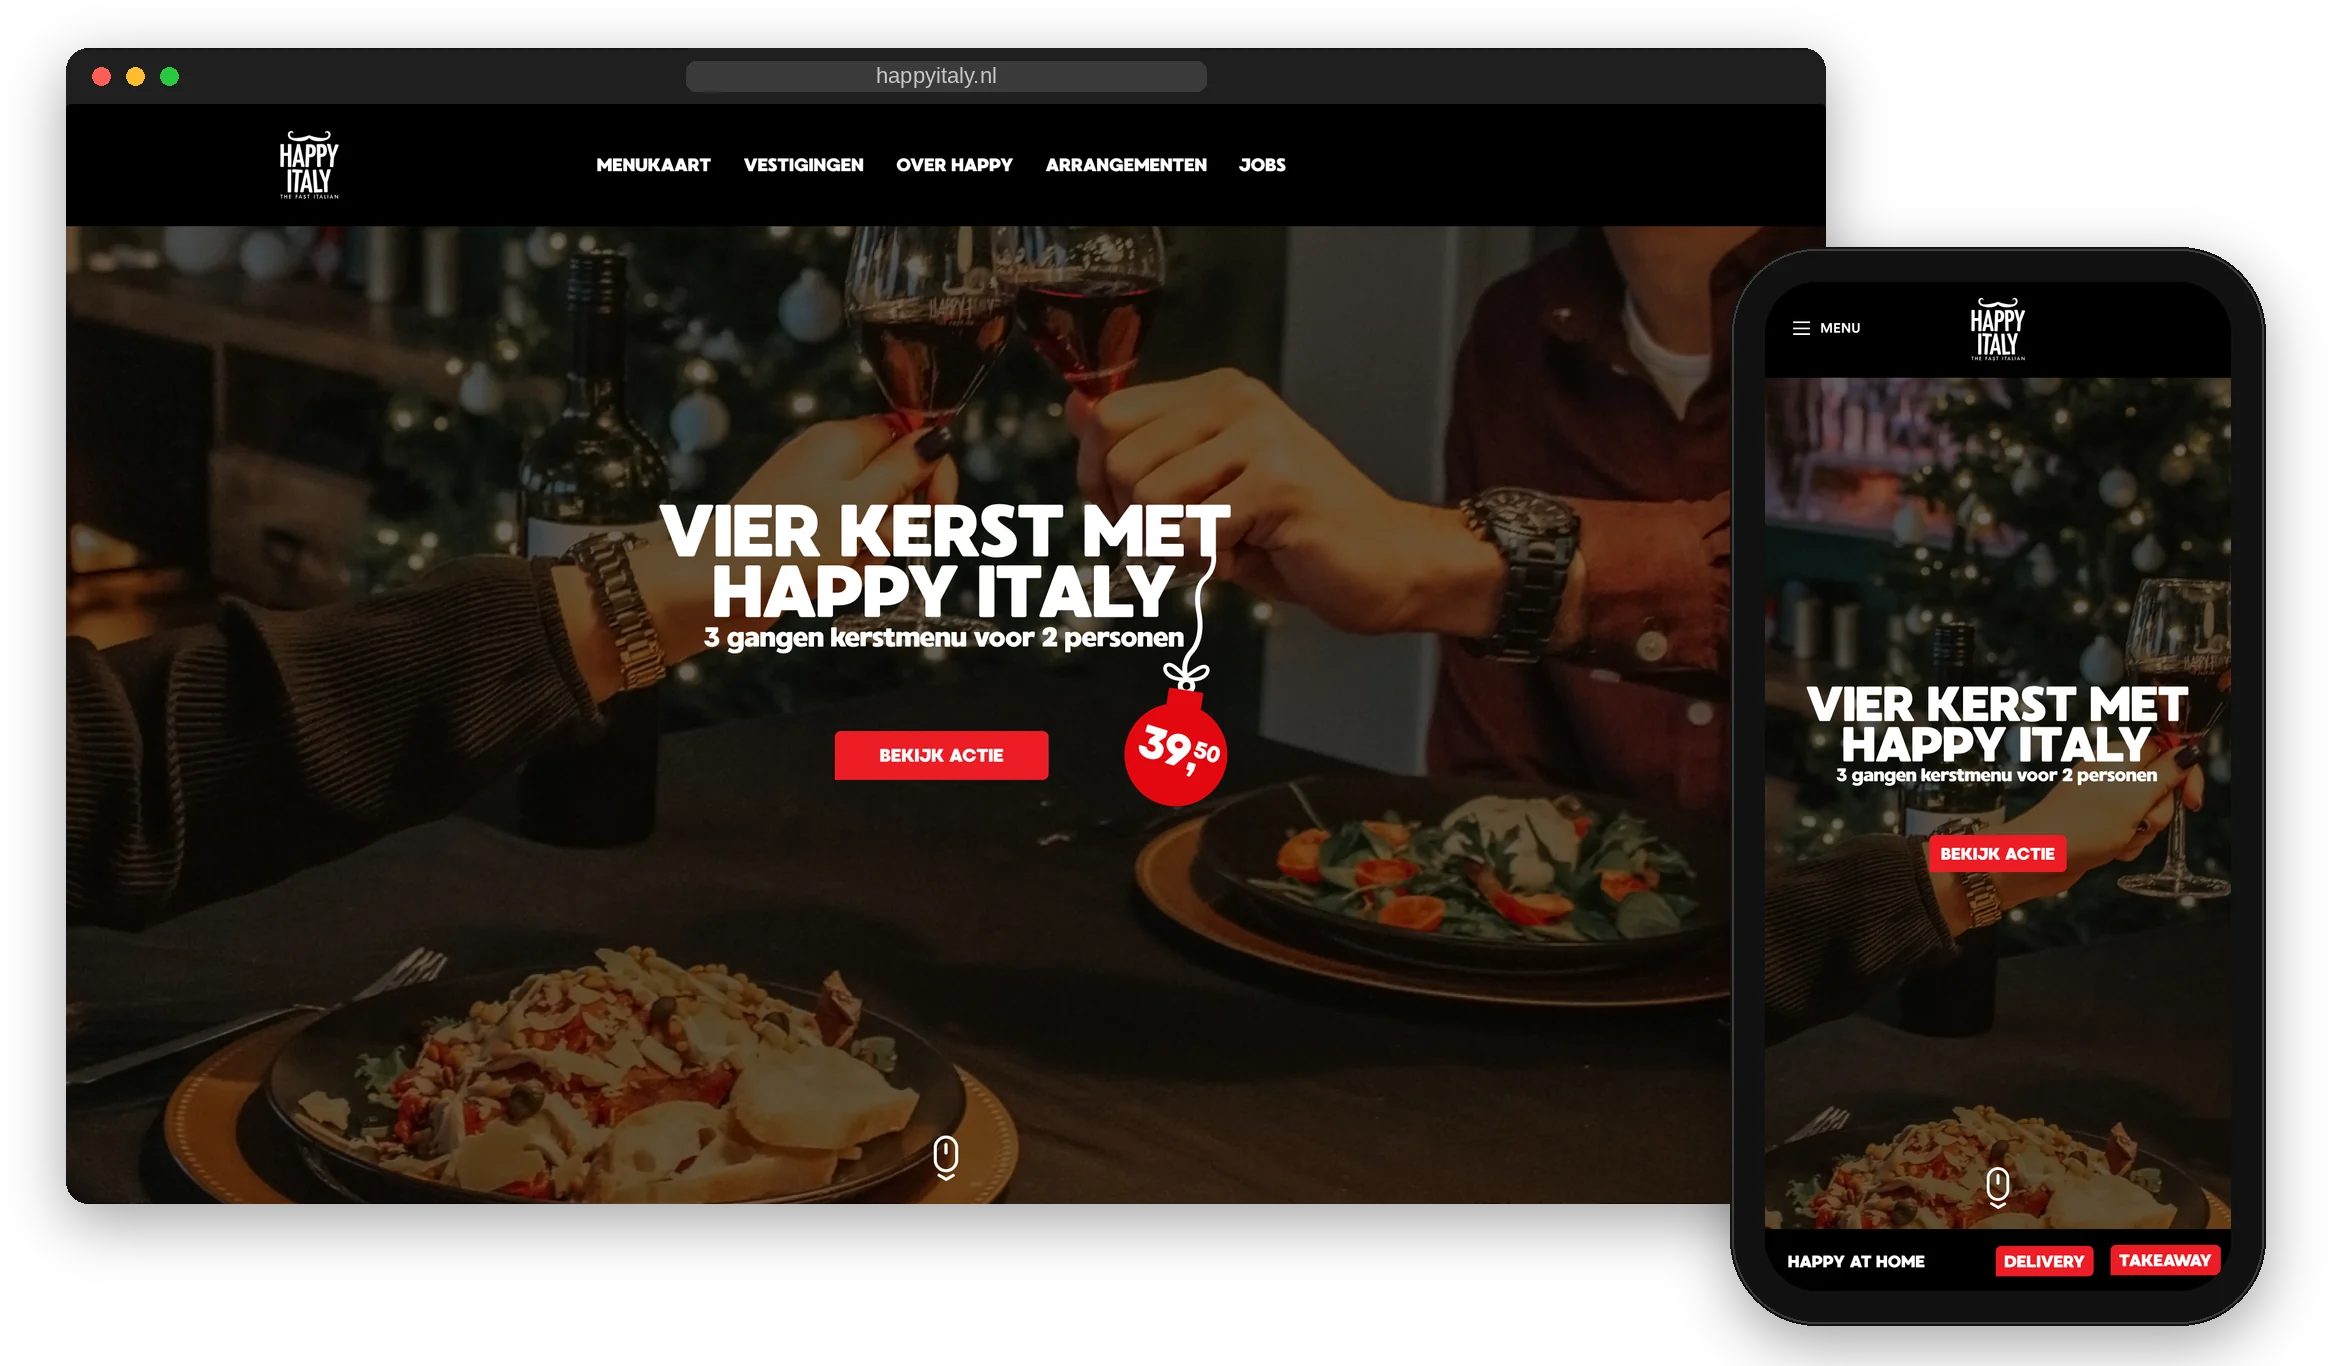
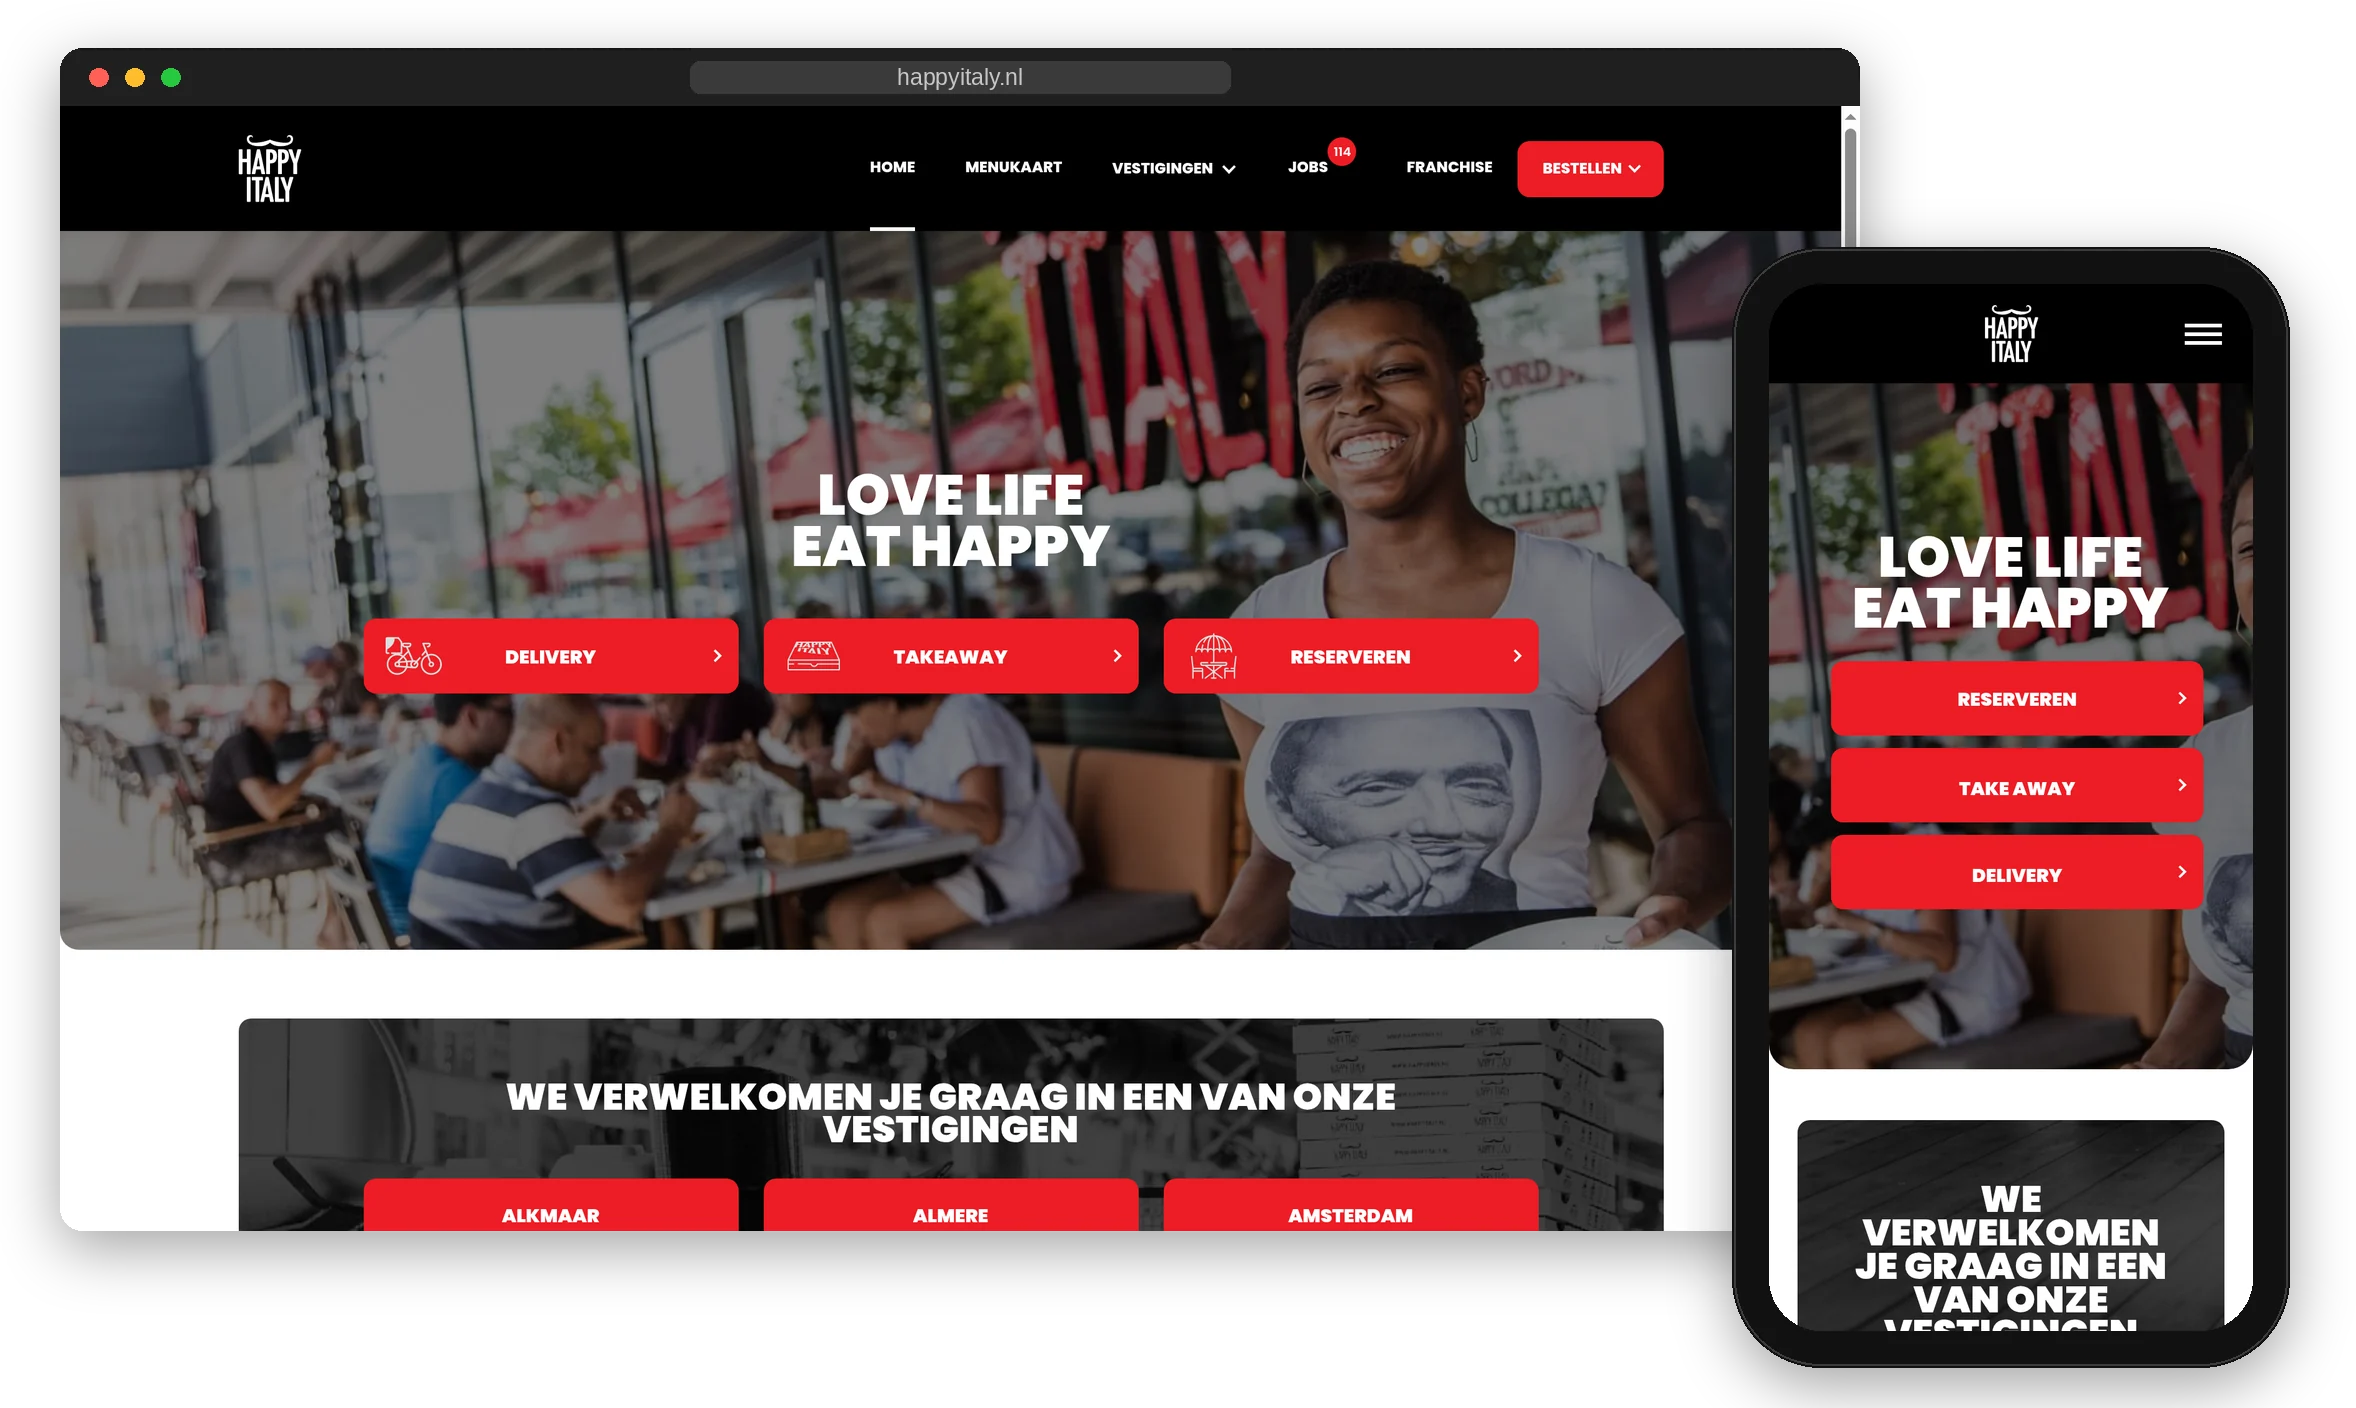
Happy Italy website case: real screens from the Webflow project, restaurant pages, allergy filter and the jobs content model [skip netlify]

diff --git a/src/data/work.ts b/src/data/work.ts
@@ -356,12 +356,13 @@ export const cases: Case[] = [
 		],
 	},
 	{
-		// Happy Italy website. Designed in Figma and built in Webflow by Musa, live spring to autumn 2021 (Wayback). Split from the app on Musa's request, 17 Nov 2026.
-		// Before/after top bars are archive captures (Feb and Jun 2021). Nothing measured: never claim a result.
+		// Happy Italy website. Designed in Figma and built in Webflow by Musa, live spring to autumn 2021 (Wayback).
+		// Split from the app on Musa's request, 17 Nov 2026. Facts from his Webflow project (hppyprjct, read 18 Nov 2026): 18 CMS collections,
+		// 138 dishes, 14 allergens, 20 visible restaurants, 16 standard roles, 125 vacancies (115 not archived). Nothing measured: never claim a result.
 		slug: 'happy-italy-website',
 		name: 'Happy Italy website',
 		title: 'Three ways to order became one button',
-		summary: 'In 2021 Happy Italy’s 20 restaurants traded through delivery and takeaway, and every new restaurant needed staff. I designed the chain’s new website and built it in Webflow around those two jobs: ordering and hiring.',
+		summary: 'In 2021 Happy Italy’s 20 restaurants traded through delivery and takeaway, and every new restaurant needed staff. I designed the chain’s new website and built it in Webflow around those jobs: ordering, finding your restaurant and dishes, and hiring.',
 		field: 'var(--lime)',
 		ink: '#000000',
 		facts: [
@@ -369,23 +370,23 @@ export const cases: Case[] = [
 			['Worked with', 'Management and restaurant stakeholders'],
 			['Platform', 'Website for phone, tablet and desktop'],
 			['Years', '2020 to 2021'],
-			['Status', 'Live from spring 2021, replaced after the chain changed owners later that year'],
-			['Built with', 'Figma and Webflow'],
+			['Status', 'Live from spring 2021, replaced after the chain changed owners later that year. The Webflow project still runs on its Webflow address'],
+			['In the CMS', '138 dishes, 14 allergens, 20 restaurants and over 100 vacancies'],
 		],
 		front: {
 			mast: 'Happy Italy',
 			title: 'Three ways to order became one button',
 			lines: [['Role', 'Design and build'], ['Restaurants', '20'], ['Live', '2021']],
-			star: { kind: 'comp', img: '/img/happy/happy-web-cover.webp', alt: 'The Happy Italy website design in a browser and on a phone: a Christmas campaign on the first screen, with delivery and takeaway at the bottom on the phone', w: 2332, h: 1366 },
+			star: { kind: 'comp', img: '/img/happy/happy-web-cover.webp', alt: 'The Happy Italy website on desktop and phone: a photo of a smiling server on the terrace, with delivery, takeaway and booking a table on the first screen', w: 2356, h: 1408 },
 		},
 		chapter: {
-			body: 'Twenty restaurants trading through delivery and takeaway, and hiring for every new one. I designed the new website and built it in Webflow: one order button instead of three, and a page for each of [100] open vacancies.',
-			visual: { kind: 'image', img: '/img/happy/happy-web-cover.webp', alt: 'The Happy Italy website design in a browser and on a phone: a Christmas campaign on the first screen, with delivery and takeaway at the bottom on the phone', w: 2332, h: 1366 },
+			body: 'Twenty restaurants trading through delivery and takeaway, and hiring for every new one. I designed the new website and built it in Webflow: one order button instead of three, a menu you can filter by allergen, and a page for each of [100] open vacancies.',
+			visual: { kind: 'image', img: '/img/happy/happy-web-cover.webp', alt: 'The Happy Italy website on desktop and phone: a photo of a smiling server on the terrace, with delivery, takeaway and booking a table on the first screen', w: 2356, h: 1408 },
 		},
 		closing: {
 			heading: 'What this case shows',
 			body: [
-				'A consumer website designed and built end to end, around the two things the business needed online: orders and staff.',
+				'A consumer website designed and built end to end, with the content model as part of the design: one place for every dish, restaurant and vacancy.',
 				'The app I designed for the chain in the same period is its own case.',
 			],
 		},
@@ -394,37 +395,48 @@ export const cases: Case[] = [
 				heading: 'Closed dining rooms, two jobs online',
 				body: [
 					'The chain planned to grow from 20 restaurants to more than 40, and into Europe, within five years. In 2021 the lockdowns kept the dining rooms closed, and delivery and takeaway kept the restaurants trading.',
-					'So the website had two jobs: get guests to order, and hire the people every new restaurant needs. In February 2021 its top bar had eight items, and three of them were different ways to order: To go, Happy Delivery and Takeaway.',
+					'So the website had two jobs: get guests to order, and hire the people every new restaurant needs.',
 				],
-				shot: { kind: 'image', img: '/img/happy/happy-web-nav.webp', alt: 'The Happy Italy top bar in February 2021, with three ways to order, and in June 2021 after the redesign, with one order button and 100 open vacancies on Jobs', w: 1680, h: 820 },
 			},
 			{
 				heading: 'One order button instead of three',
 				body: [
-					'I designed the new site for phone, tablet and desktop. On desktop the three ordering items became one order button, Bestellen, in the top bar. On the phone, delivery and takeaway sit in a bar at the bottom of the first screen, so ordering is always one tap away.',
-					'All 20 restaurants sit in one block on the homepage, each with its own page.',
+					'In February 2021 the top bar had eight items, and three of them were different ways to order: To go, Happy Delivery and Takeaway. In the new site they became one order button, Bestellen.',
+					'The first screen offers delivery, takeaway and booking a table, and it works as a campaign slot that changes with the season, from a Christmas menu in the designs to terrace bookings when the terraces reopened in June 2021.',
 				],
-				shot: { kind: 'image', img: '/img/happy/happy-site.webp', alt: 'The Happy Italy website design on iPad and phone: a Christmas campaign on the first screen, with delivery and takeaway at the bottom on the phone', w: 1286, h: 1488 },
+				shot: { kind: 'image', img: '/img/happy/happy-web-nav.webp', alt: 'The Happy Italy top bar in February 2021, with three ways to order, and in June 2021 after the redesign, with one order button and 100 open vacancies on Jobs', w: 1680, h: 820 },
 			},
 			{
-				heading: 'A first screen that changes with the season',
+				heading: 'Every restaurant on one template',
 				body: [
-					'The first screen is a campaign slot rather than a fixed banner: a Christmas menu in the designs, then terrace and table bookings when the terraces reopened in June 2021, next to delivery and takeaway.',
+					'Ordering happens per restaurant, so each of the 20 restaurants has its own page from one template: booking a table, with a note that booking for tonight closes at 17:00, the opening hours, the delivery partners that serve that restaurant, the menu, a local deal, and that restaurant’s vacancies.',
+					'Guests see what their own restaurant offers instead of a chain-wide list that may not apply to them.',
 				],
+				shot: { kind: 'image', img: '/img/happy/happy-web-restaurant.webp', alt: 'The Breda restaurant page: booking with a note about booking for tonight, opening hours, the delivery partners that serve Breda, and the restaurant’s own vacancies', w: 1626, h: 1416 },
 			},
 			{
-				heading: 'Hiring for twenty restaurants',
+				heading: 'A menu without your allergens',
 				body: [
-					'In June 2021 the site listed 100 open vacancies, and the number sat on Jobs in the top bar. I explored five concepts for the jobs pages, from wireframe to final design.',
-					'Every vacancy has its own page with the role, the restaurant and the hours, and an application form that takes role, restaurant, hours, motivation and CV in one go.',
+					'The whole menu lives in the CMS: 138 dishes in ten categories, each linked to the 14 allergens it contains and marked vegan, spicy or halal. Guests with a food allergy untick theirs and see their own menu, instead of reading every description.',
+					'A heart on each dish lets guests put their order together before they choose how to order.',
 				],
-				shot: { kind: 'image', img: '/img/happy/happy-jobs.webp', alt: 'Four concepts for the Happy Italy jobs pages, from two wireframes to two final designs', w: 1824, h: 1420 },
+				shot: { kind: 'image', img: '/img/happy/happy-web-menu.webp', alt: 'The menu with the allergy filter open: untick your allergens to see your own menu, with all 14 allergens listed', w: 1626, h: 1237 },
+			},
+			{
+				heading: 'One role description, a hundred vacancies',
+				body: [
+					'In June 2021 the site listed 100 open vacancies. Most of them were the same few roles in different restaurants, so I wrote 16 role descriptions once and linked each vacancy to a role, a restaurant and its hours: fulltime, parttime or flex.',
+					'Every vacancy gets its own page with one apply button, and the number on Jobs in the top bar counts the open vacancies straight from the CMS.',
+				],
+				shot: { kind: 'image', img: '/img/happy/happy-web-jobs.webp', alt: 'The jobs overview grouped by restaurant on desktop, and a vacancy page on a phone with one apply button', w: 2286, h: 1368 },
 			},
 			{
 				heading: 'Designed where it was built',
 				body: [
-					'Figma held the concepts; most of the design happened in Webflow itself, where I built the site. The details for phone, tablet and desktop were decided in the build, so what went live is what was designed, with no handover in between.',
+					'I explored five concepts for the jobs pages in Figma, from wireframe to final design. Most of the design then happened in Webflow, where I built the site on 18 CMS collections, from dishes and allergens to opening hours.',
+					'A price, an opening time or a new vacancy changes in one place and shows up everywhere it is used.',
 				],
+				shot: { kind: 'image', img: '/img/happy/happy-jobs.webp', alt: 'Four concepts for the Happy Italy jobs pages, from two wireframes to two final designs', w: 1824, h: 1420 },
 			},
 			{
 				heading: 'What happened next',
@@ -435,7 +447,7 @@ export const cases: Case[] = [
 			{
 				heading: 'What shipped, what I can’t show',
 				body: [
-					'Shipped: the website for phone, tablet and desktop, with ordering and the jobs pages, live in 2021.',
+					'Shipped: the website for phone, tablet and desktop, with ordering, the restaurant pages, the menu with allergy filter and the jobs pages, live in 2021. The screens here come from the Webflow project, which still runs on its Webflow address.',
 					'Not measured: I have no before-and-after numbers for orders or applications.',
 				],
 			},
